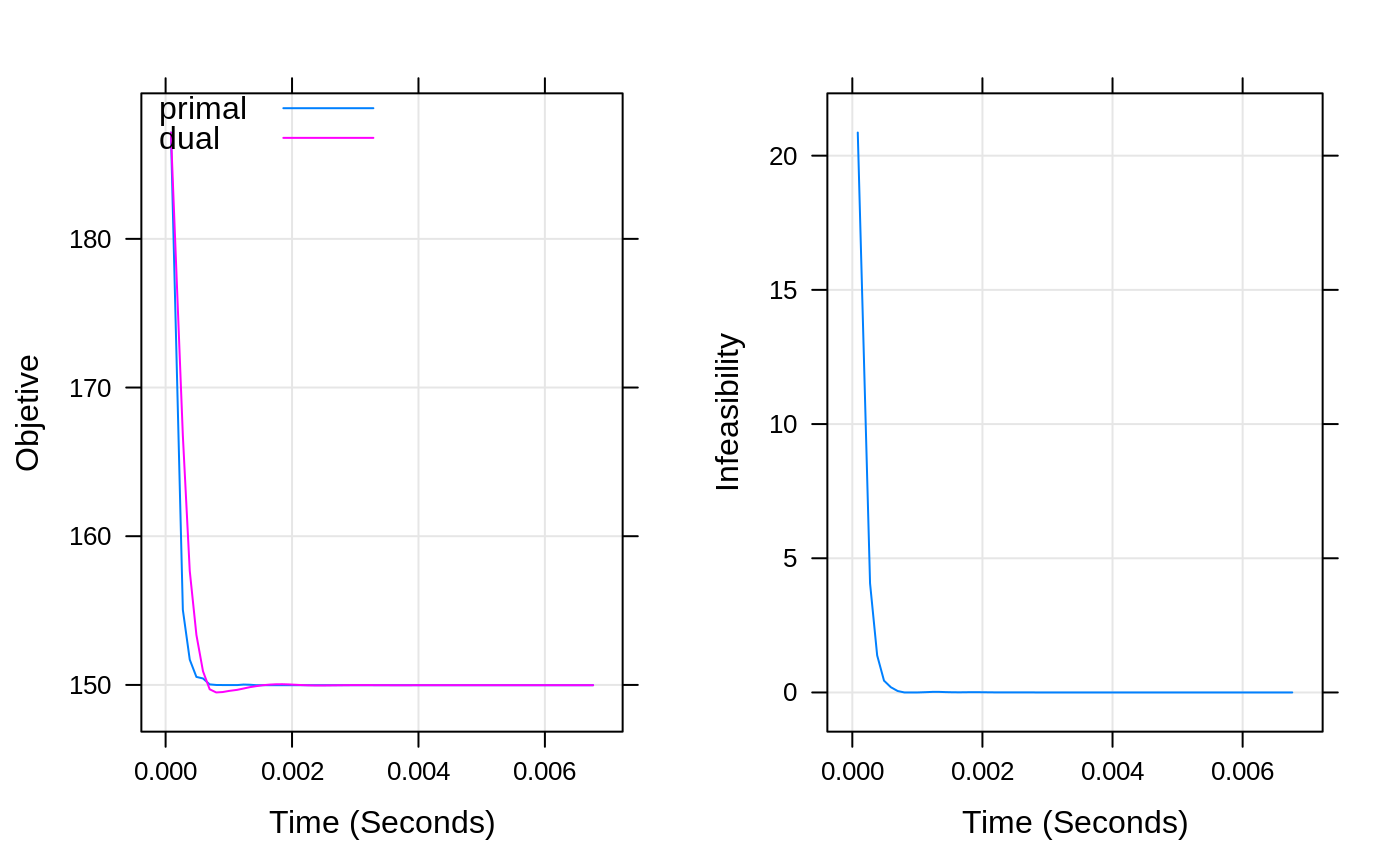
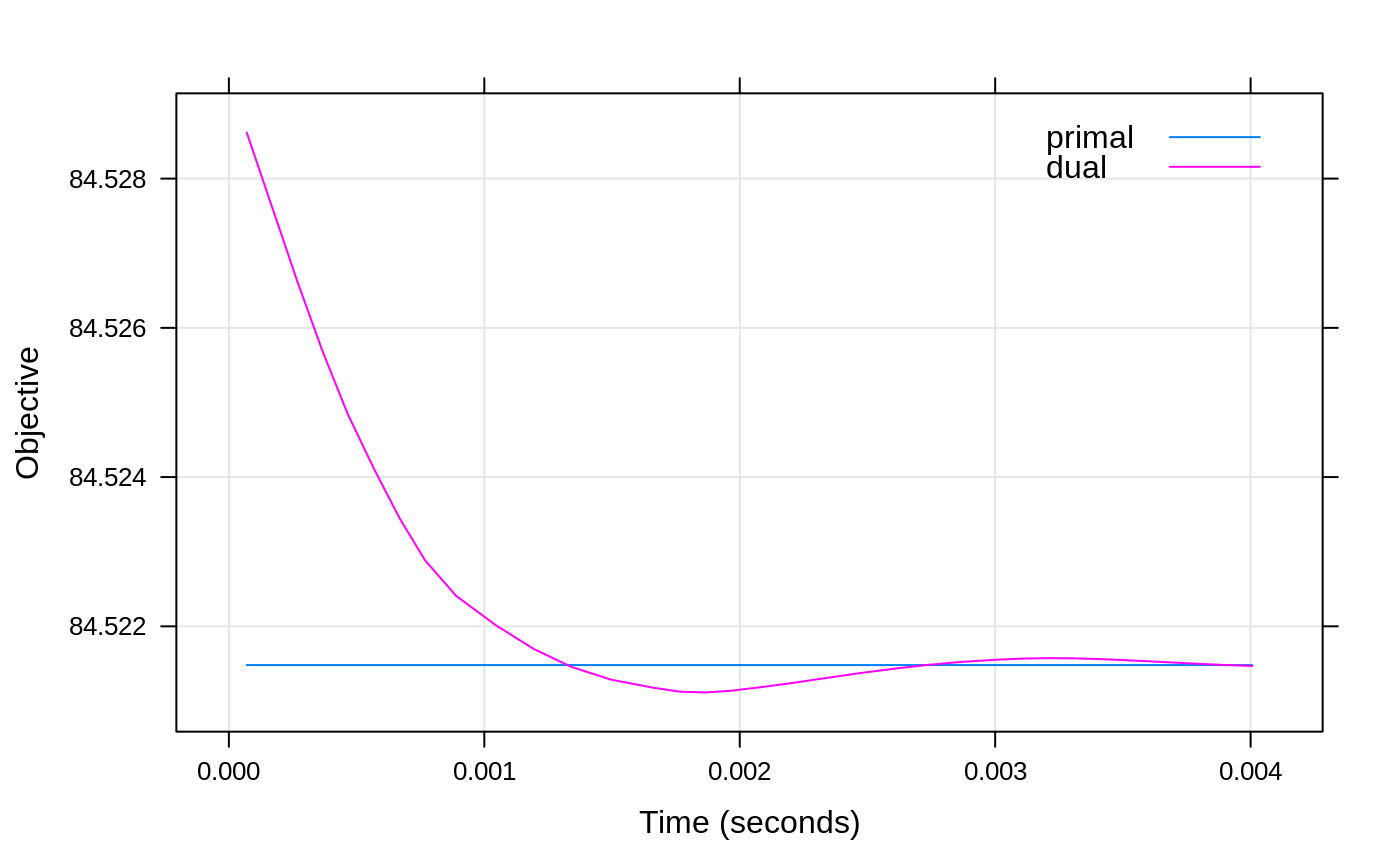
Built site for golem: 0.0.0.9000@2baffb9

diff --git a/reference/golem.html b/reference/golem.html
@@ -141,10 +141,11 @@ optimization routines suitable to big data problems.</p>
 
     <pre class="usage"><span class='fu'>golem</span>(<span class='kw'>family</span> <span class='kw'>=</span> <span class='fu'><a href='https://www.rdocumentation.org/packages/base/topics/c'>c</a></span>(<span class='st'>"gaussian"</span>, <span class='st'>"binomial"</span>), <span class='kw'>penalty</span> <span class='kw'>=</span> <span class='fu'><a href='https://www.rdocumentation.org/packages/base/topics/c'>c</a></span>(<span class='st'>"slope"</span>,
   <span class='st'>"group_slope"</span>, <span class='st'>"lasso"</span>), <span class='kw'>solver</span> <span class='kw'>=</span> <span class='st'>"fista"</span>, <span class='kw'>intercept</span> <span class='kw'>=</span> <span class='fl'>TRUE</span>,
-  <span class='kw'>standardize_features</span> <span class='kw'>=</span> <span class='fl'>TRUE</span>, <span class='kw'>orthogonalize</span> <span class='kw'>=</span> <span class='fl'>TRUE</span>, <span class='kw'>sigma</span> <span class='kw'>=</span> <span class='kw'>NULL</span>,
-  <span class='kw'>lambda</span> <span class='kw'>=</span> <span class='kw'>NULL</span>, <span class='kw'>fdr</span> <span class='kw'>=</span> <span class='fl'>0.2</span>, <span class='kw'>n_lambda</span> <span class='kw'>=</span> <span class='fl'>100</span>,
-  <span class='kw'>lambda_min_ratio</span> <span class='kw'>=</span> <span class='kw'>NULL</span>, <span class='kw'>tol_rel_gap</span> <span class='kw'>=</span> <span class='fl'>1e-06</span>, <span class='kw'>tol_infeas</span> <span class='kw'>=</span> <span class='fl'>1e-06</span>,
-  <span class='kw'>max_passes</span> <span class='kw'>=</span> <span class='fl'>10000</span>, <span class='kw'>diagnostics</span> <span class='kw'>=</span> <span class='fl'>FALSE</span>)</pre>
+  <span class='kw'>standardize_features</span> <span class='kw'>=</span> <span class='fl'>TRUE</span>, <span class='kw'>orthogonalize</span> <span class='kw'>=</span> <span class='fl'>TRUE</span>,
+  <span class='kw'>sigma</span> <span class='kw'>=</span> <span class='fu'><a href='https://www.rdocumentation.org/packages/base/topics/c'>c</a></span>(<span class='st'>"sequence"</span>, <span class='st'>"estimate"</span>), <span class='kw'>n_sigma</span> <span class='kw'>=</span> <span class='fl'>100</span>,
+  <span class='kw'>sigma_min_ratio</span> <span class='kw'>=</span> <span class='kw'>NULL</span>, <span class='kw'>lambda</span> <span class='kw'>=</span> <span class='kw'>NULL</span>, <span class='kw'>n_lambda</span> <span class='kw'>=</span> <span class='fl'>100</span>,
+  <span class='kw'>lambda_min_ratio</span> <span class='kw'>=</span> <span class='kw'>NULL</span>, <span class='kw'>fdr</span> <span class='kw'>=</span> <span class='fl'>0.2</span>, <span class='kw'>tol_rel_gap</span> <span class='kw'>=</span> <span class='fl'>1e-06</span>,
+  <span class='kw'>tol_infeas</span> <span class='kw'>=</span> <span class='fl'>1e-06</span>, <span class='kw'>max_passes</span> <span class='kw'>=</span> <span class='fl'>10000</span>, <span class='kw'>diagnostics</span> <span class='kw'>=</span> <span class='fl'>FALSE</span>)</pre>
     
     <h2 class="hasAnchor" id="arguments"><a class="anchor" href="#arguments"></a>Arguments</h2>
     <table class="ref-arguments">
@@ -181,14 +182,18 @@ applies to Group SLOPE)</p></td>
       <td><p>noise estimate (only applies to SLOPE and Group SLOPE)</p></td>
     </tr>
     <tr>
+      <th>n_sigma</th>
+      <td><p>number of sigmas to generate (only relevant for
+SLOPE and Group SLOPE)</p></td>
+    </tr>
+    <tr>
+      <th>sigma_min_ratio</th>
+      <td><p>smallest value for <code>sigma</code> as a fraction of</p></td>
+    </tr>
+    <tr>
       <th>lambda</th>
       <td><p>either a character vector indicating the method used
 to construct the lambda path or</p></td>
-    </tr>
-    <tr>
-      <th>fdr</th>
-      <td><p>target false discovery rate (only applies to SLOPE and
-Group SLOPE)</p></td>
     </tr>
     <tr>
       <th>n_lambda</th>
@@ -198,6 +203,11 @@ Group SLOPE)</p></td>
       <th>lambda_min_ratio</th>
       <td><p>smallest value for <code>lambda</code> as a fraction of
 \(\lambda_\mathrm{max}\) (only applies to lasso)</p></td>
+    </tr>
+    <tr>
+      <th>fdr</th>
+      <td><p>target false discovery rate (only applies to SLOPE and
+Group SLOPE)</p></td>
     </tr>
     <tr>
       <th>tol_rel_gap</th>
@@ -244,7 +254,7 @@ feature (only applies to Group SLOPE)</p></dd>
 <dt><code>warm_start</code></dt><dd><p>whether to use the coefficient estimates from the previous
 fit when refitting the model using new data. Provided that
 the same penalty (with approximately the same parameters)
-id used, setting this to true might lead to
+is used, setting this to true might lead to
 substantial performance boosts.</p></dd>
 <dt><code>&#8230;</code></dt><dd><p>arguments that will be used to modify the original model
 specification from the call to <code>golem()</code>. Note that arguments
@@ -261,6 +271,11 @@ new data.
 <dt><code>type</code></dt><dd><p>type of predictions to make. <code>"link"</code> gives the linear
 predictors, <code>"response"</code> gives the result of applying the link
 function, and <code>"class"</code> gives class predictions.</p></dd>
+</dl></p></dd>
+<dt><code><a href='https://www.rdocumentation.org/packages/graphics/topics/plot'>plot(...)</a></code></dt><dd><p>Plot the model's coefficient along the regularization path.
+<dl class='dl-horizontal'>
+<dt><code>&#8230;</code></dt><dd><p>graphical parameters for the plot passed on
+to <code><a href='https://www.rdocumentation.org/packages/lattice/topics/xyplot'>lattice::xyplot()</a></code>.</p></dd>
 </dl></p></dd>
 </dl>
     
@@ -325,10 +340,226 @@ of the classical gradient algorithm.</p>
 <span class='no'>gaussian_model</span>$<span class='fu'>fit</span>(<span class='no'>abalone</span>$<span class='no'>x</span>, <span class='no'>abalone</span>$<span class='no'>y</span>)
 
 <span class='co'># Get coefficients from the model fit</span>
-<span class='no'>gaussian_model</span>$<span class='fu'><a href='https://www.rdocumentation.org/packages/stats/topics/coef'>coef</a></span>()</div><div class='output co'>#&gt;    (Intercept)            sex         infant         length       diameter 
-#&gt;      4.7343105      0.0000000     -0.8427948      0.0000000      7.1485564 
-#&gt;         height   weight_whole weight_shucked weight_viscera   weight_shell 
-#&gt;     10.8508101      0.0000000     -8.0753432      0.0000000     16.5076554 </div><div class='input'>
+<span class='no'>gaussian_model</span>$<span class='fu'><a href='https://www.rdocumentation.org/packages/stats/topics/coef'>coef</a></span>()</div><div class='output co'>#&gt;                      p1       p2       p3       p4       p5           p6
+#&gt; (Intercept)    9.933684 9.933684 9.933684 9.933684 9.933684  9.919905091
+#&gt; sex            0.000000 0.000000 0.000000 0.000000 0.000000  0.000000000
+#&gt; infant         0.000000 0.000000 0.000000 0.000000 0.000000 -0.001658197
+#&gt; length         0.000000 0.000000 0.000000 0.000000 0.000000  0.006448507
+#&gt; diameter       0.000000 0.000000 0.000000 0.000000 0.000000  0.007803517
+#&gt; height         0.000000 0.000000 0.000000 0.000000 0.000000  0.018514809
+#&gt; weight_whole   0.000000 0.000000 0.000000 0.000000 0.000000  0.001579195
+#&gt; weight_shucked 0.000000 0.000000 0.000000 0.000000 0.000000  0.003488961
+#&gt; weight_viscera 0.000000 0.000000 0.000000 0.000000 0.000000  0.007064957
+#&gt; weight_shell   0.000000 0.000000 0.000000 0.000000 0.000000  0.005563255
+#&gt;                        p7         p8         p9        p10        p11
+#&gt; (Intercept)     9.4905148  9.0937463  8.7322232  8.4028082  8.1026558
+#&gt; sex             0.0000000  0.0000000  0.0000000  0.0000000  0.0000000
+#&gt; infant         -0.0586691 -0.1111954 -0.1590557 -0.2026653 -0.2424011
+#&gt; length          0.2281562  0.4324238  0.6185461  0.7881382  0.9426651
+#&gt; diameter        0.2760982  0.5232880  0.7485197  0.9537479  1.1407452
+#&gt; height          0.6550771  1.2415656  1.7759557  2.2628849  2.7065591
+#&gt; weight_whole    0.0558739  0.1058976  0.1514777  0.1930097  0.2308522
+#&gt; weight_shucked  0.0000000  0.0000000  0.0000000  0.0000000  0.0000000
+#&gt; weight_viscera  0.2499670  0.4737617  0.6776765  0.8634809  1.0327800
+#&gt; weight_shell    0.1968349  0.3730606  0.5336320  0.6799425  0.8132560
+#&gt;                       p12        p13        p14        p15        p16
+#&gt; (Intercept)     7.8291681  7.5799762  7.3002355  7.0341917  6.9409952
+#&gt; sex             0.0000000  0.0000000  0.0000000  0.0000000  0.0000000
+#&gt; infant         -0.2786068 -0.3115961 -0.3635287 -0.4130987 -0.3922117
+#&gt; length          1.0834643  1.2117553  1.4137144  1.6064851  1.5252587
+#&gt; diameter        1.3111302  1.4663786  1.7107749  1.9440522  1.8457578
+#&gt; height          3.1108185  3.4791647  4.0590252  4.6125043  4.3792888
+#&gt; weight_whole    0.2653330  0.2967506  0.3462090  0.3934172  0.3735254
+#&gt; weight_shucked  0.0000000  0.0000000  0.0000000  0.0000000  0.0000000
+#&gt; weight_viscera  1.1870389  1.3275940  0.9256714  0.0000000  0.0000000
+#&gt; weight_shell    0.9347262  1.0454054  1.2196395  1.7917495  2.7052111
+#&gt;                       p17        p18        p19        p20        p21
+#&gt; (Intercept)     6.8560139  6.6701010  6.5633817  6.4662006  6.4869965
+#&gt; sex             0.0000000  0.0000000  0.0000000  0.0000000  0.0000000
+#&gt; infant         -0.3732094 -0.3999221 -0.3976222 -0.3955002 -0.4228784
+#&gt; length          1.4513612  1.5552435  1.5462993  1.5380470  1.0924055
+#&gt; diameter        1.7563324  1.8820432  1.8712197  1.8612334  1.9900759
+#&gt; height          4.1671158  4.4653804  4.4397002  4.4160064  4.7217013
+#&gt; weight_whole    0.3554284  0.0000000  0.0000000  0.0000000  0.0000000
+#&gt; weight_shucked  0.0000000  0.0000000  0.0000000  0.0000000  0.0000000
+#&gt; weight_viscera  0.0000000  0.0000000  0.0000000  0.0000000  0.0000000
+#&gt; weight_shell    3.5370646  4.9679194  5.4647754  5.9178259  6.4466978
+#&gt;                       p22        p23        p24        p25        p26
+#&gt; (Intercept)     6.5878073  6.5953084  6.5133214  6.4357576  6.4741846
+#&gt; sex             0.0000000  0.0000000  0.0000000  0.0000000  0.0000000
+#&gt; infant         -0.4697341 -0.4968373 -0.5051585 -0.5110325 -0.5412956
+#&gt; length          0.3584548  0.0000000  0.0000000  0.0000000  0.0000000
+#&gt; diameter        2.2105798  2.3381280  2.3772879  2.4049311  1.9998392
+#&gt; height          5.2448740  5.5474980  5.6404097  5.7694818  6.1221620
+#&gt; weight_whole    0.0000000  0.0000000  0.0000000  0.0000000  0.0000000
+#&gt; weight_shucked  0.0000000  0.0000000  0.0000000  0.0000000  0.0000000
+#&gt; weight_viscera  0.0000000  0.0000000  0.0000000  0.0000000  0.0000000
+#&gt; weight_shell    7.0157072  7.4125933  7.6459180  7.8559753  8.2215931
+#&gt;                       p27        p28        p29       p30        p31        p32
+#&gt; (Intercept)     6.5192289  6.5255736  6.2345142  6.111974  5.9681565  5.8345496
+#&gt; sex             0.0000000  0.0000000  0.0000000  0.000000  0.0000000  0.0000000
+#&gt; infant         -0.5711672 -0.5986045 -0.6203897 -0.673525 -0.6932731 -0.7224736
+#&gt; length          0.0000000  0.0000000  0.0000000  0.000000  0.0000000  0.0000000
+#&gt; diameter        1.5916000  1.3652400  2.4359633  2.768460  2.9397713  3.3999783
+#&gt; height          6.4637781  6.7858403  6.9563542  7.520327  8.6639519  8.9650305
+#&gt; weight_whole    0.0000000  0.0000000  0.0000000  0.000000  0.0000000  0.0000000
+#&gt; weight_shucked  0.0000000 -0.1272483 -1.0891217 -1.417143 -2.0223982 -2.8395192
+#&gt; weight_viscera  0.0000000  0.0000000  0.0000000  0.000000  0.0000000  0.0000000
+#&gt; weight_shell    8.5708154  8.9710751  9.7381752  9.919010 10.4978399 11.3642277
+#&gt;                       p33        p34        p35        p36        p37
+#&gt; (Intercept)     5.7733737  5.6294988  5.5218879  5.4238236  5.2877247
+#&gt; sex             0.0000000  0.0000000  0.0000000  0.0000000  0.0000000
+#&gt; infant         -0.7606355 -0.7765347 -0.7893852 -0.8010933 -0.8099447
+#&gt; length          0.0000000  0.0000000  0.0000000  0.0000000  0.0000000
+#&gt; diameter        3.5795689  4.0569253  4.2949580  4.5118741  5.0154073
+#&gt; height          9.3406579  9.6255571 10.1903191 10.7049796 10.7865766
+#&gt; weight_whole    0.0000000  0.0000000  0.0000000  0.0000000  0.0000000
+#&gt; weight_shucked -3.5473730 -4.2424524 -4.8515923 -5.4066528 -5.9522416
+#&gt; weight_viscera  0.0000000  0.0000000  0.0000000  0.0000000  0.0000000
+#&gt; weight_shell   12.2106778 12.8986926 13.5466910 14.1371380 14.6322320
+#&gt;                       p38        p39        p40        p41        p42
+#&gt; (Intercept)     5.1565566  5.0370395  4.9281381  4.8289112  4.7384994
+#&gt; sex             0.0000000  0.0000000  0.0000000  0.0000000  0.0000000
+#&gt; infant         -0.8177314 -0.8248262 -0.8312908 -0.8371811 -0.8425482
+#&gt; length          0.0000000  0.0000000  0.0000000  0.0000000  0.0000000
+#&gt; diameter        5.5209930  5.9816644  6.4014262  6.7838976  7.1323913
+#&gt; height         10.8018131 10.8157104 10.8283531 10.8398726 10.8503688
+#&gt; weight_whole    0.0000000  0.0000000  0.0000000  0.0000000  0.0000000
+#&gt; weight_shucked -6.4554766 -6.9140199 -7.3318152 -7.7124947 -8.0593557
+#&gt; weight_viscera  0.0000000  0.0000000  0.0000000  0.0000000  0.0000000
+#&gt; weight_shell   15.0767788 15.4818519 15.8509146 16.1871908 16.4935931
+#&gt;                       p43        p44        p45        p46         p47
+#&gt; (Intercept)     4.6561194  4.5810579  4.5126647  4.4583274   4.4243133
+#&gt; sex             0.0000000  0.0000000  0.0000000  0.0000000   0.0000000
+#&gt; infant         -0.8474384 -0.8518942 -0.8559542 -0.8572413  -0.8537435
+#&gt; length          0.0000000  0.0000000  0.0000000  0.0000000   0.0000000
+#&gt; diameter        7.4499258  7.7392514  8.0028741  8.2145499   8.3519778
+#&gt; height         10.8599325 10.8686466 10.8765865 10.8584991  10.7930600
+#&gt; weight_whole    0.0000000  0.0000000  0.0000000  0.1595255   0.6138303
+#&gt; weight_shucked -8.3754025 -8.6633726 -8.9257602 -9.3586032 -10.1282472
+#&gt; weight_viscera  0.0000000  0.0000000  0.0000000  0.0000000   0.0000000
+#&gt; weight_shell   16.7727755 17.0271561 17.2589382 17.2349878  16.7578690
+#&gt;                        p48         p49         p50         p51         p52
+#&gt; (Intercept)      4.4093534   4.4052104   4.3731422   4.3238281   4.2730083
+#&gt; sex              0.0000000   0.0000000   0.0000000   0.0000000   0.0000000
+#&gt; infant          -0.8533089  -0.8545281  -0.8601265  -0.8611718  -0.8612814
+#&gt; length           0.0000000   0.0000000   0.0000000   0.0000000   0.0000000
+#&gt; diameter         8.4091049   8.4208431   8.5584458   8.7170408   8.9399775
+#&gt; height          10.7175926  10.6396319  10.6320665  10.7782151  10.7521946
+#&gt; weight_whole     0.7818552   0.7908205   0.9068475   1.2756925   1.8091803
+#&gt; weight_shucked -10.5022250 -10.6510749 -10.9575420 -11.4203721 -12.0287734
+#&gt; weight_viscera   0.0000000   0.0000000   0.0000000  -0.5509792  -1.2913071
+#&gt; weight_shell    16.7461216  16.9834673  16.9532145  16.6380287  16.1094866
+#&gt;                        p53         p54         p55         p56         p57
+#&gt; (Intercept)      4.2187978   4.1918737   4.1673422   4.1497105   4.1311047
+#&gt; sex              0.0000000   0.0000000   0.0000000   0.0000000   0.0000000
+#&gt; infant          -0.8614747  -0.8614016  -0.8613353  -0.8632578  -0.8633405
+#&gt; length           0.0000000   0.0000000   0.0000000   0.0000000   0.0000000
+#&gt; diameter         9.1762672   9.2972691   9.4075190   9.4960919   9.5507382
+#&gt; height          10.7168498  10.7175877  10.7182567  10.7090328  10.7591581
+#&gt; weight_whole     2.2118485   2.8126350   3.3600226   3.8164195   3.9708906
+#&gt; weight_shucked -12.5090635 -13.1540510 -13.7417081 -14.2561783 -14.4851698
+#&gt; weight_viscera  -1.8791832  -2.6581987  -3.3680038  -3.8969613  -4.1141923
+#&gt; weight_shell    15.7237949  15.1041888  14.5396719  14.0606040  13.9888204
+#&gt;                       p58           p59           p60          p61          p62
+#&gt; (Intercept)      4.113761   4.096864050   4.081856971   4.06818315   4.05572407
+#&gt; sex              0.000000  -0.003271313  -0.008093676  -0.01248762  -0.01649122
+#&gt; infant          -0.863852  -0.864894444  -0.866591333  -0.86813749  -0.86954629
+#&gt; length           0.000000   0.000000000   0.000000000   0.00000000   0.00000000
+#&gt; diameter         9.627764   9.710421749   9.786740908   9.85627973   9.91964091
+#&gt; height          10.748095  10.747424181  10.747573167  10.74770925  10.74783325
+#&gt; weight_whole     4.237506   4.658547698   5.042232326   5.39183148   5.71037322
+#&gt; weight_shucked -14.790849 -15.235056725 -15.640824054 -16.01054342 -16.34741793
+#&gt; weight_viscera  -4.516084  -5.058879734  -5.552271823  -6.00183402  -6.41145835
+#&gt; weight_shell    13.775733  13.329222640  12.922485727  12.55188248  12.21420261
+#&gt;                         p63         p64          p65         p66          p67
+#&gt; (Intercept)      4.04437183   4.0340281   4.02460325   4.0160157   4.00819102
+#&gt; sex             -0.02013914  -0.0234630  -0.02649158  -0.0292511  -0.03176548
+#&gt; infant          -0.87082993  -0.8719995  -0.87306524  -0.8740363  -0.87492104
+#&gt; length           0.00000000   0.0000000   0.00000000   0.0000000   0.00000000
+#&gt; diameter         9.97737326  10.0299768  10.07790723  10.1215796  10.16137231
+#&gt; height          10.74794623  10.7480492  10.74814297  10.7482284  10.74830631
+#&gt; weight_whole     6.00061658   6.2650755   6.50604066   6.7255991   6.92565261
+#&gt; weight_shucked -16.65436544 -16.9340446 -17.18887780 -17.4210723 -17.63263935
+#&gt; weight_viscera  -6.78469279  -7.1247701  -7.43463589  -7.7169741  -7.97423007
+#&gt; weight_shell    11.90652129  11.6261735  11.37073108  11.1379814  10.92590864
+#&gt;                         p68          p69          p70          p71          p72
+#&gt; (Intercept)      4.00106148   3.99456531   3.98864624   3.98325300   3.97833888
+#&gt; sex             -0.03405648  -0.03614396  -0.03804599  -0.03977905  -0.04135816
+#&gt; infant          -0.87572721  -0.87646175  -0.87713105  -0.87774088  -0.87829654
+#&gt; length           0.00000000   0.00000000   0.00000000   0.00000000   0.00000000
+#&gt; diameter        10.19762990  10.23066648  10.26076817  10.28819572  10.31318667
+#&gt; height          10.74837727  10.74844192  10.74850083  10.74855450  10.74860341
+#&gt; weight_whole     7.10793390   7.27402182   7.42535495   7.56324406   7.68888349
+#&gt; weight_shucked -17.82541134 -18.00105799 -18.16110067 -18.30692561 -18.43979586
+#&gt; weight_viscera  -8.20863217  -8.42221064  -8.61681538  -8.79413197  -8.95569625
+#&gt; weight_shell    10.73267580  10.55660924  10.39618394  10.25001039  10.11682249
+#&gt;                         p73         p74         p75          p76          p77
+#&gt; (Intercept)      3.97386132   3.9697793   3.9660621   3.96016509   3.95729932
+#&gt; sex             -0.04279697  -0.0441084  -0.0453029  -0.04650632  -0.04748817
+#&gt; infant          -0.87880284  -0.8792636  -0.8796840  -0.87987556  -0.88024136
+#&gt; length           0.00000000   0.0000000   0.0000000   0.00000000   0.00000000
+#&gt; diameter        10.33595750  10.3567179  10.3756216  10.40436359  10.41904749
+#&gt; height          10.74864797  10.7486793  10.7487171  10.74109436  10.74179328
+#&gt; weight_whole     7.80336145   7.9077170   8.0027543   8.08052401   8.16016945
+#&gt; weight_shucked -18.56086228 -18.6712386 -18.7717443 -18.86075263 -18.94440591
+#&gt; weight_viscera  -9.10290760  -9.2370465  -9.3592633  -9.44739524  -9.55083317
+#&gt; weight_shell     9.99546663   9.8848223   9.7840767   9.69668047   9.61269087
+#&gt;                         p78          p79          p80         p81          p82
+#&gt; (Intercept)      3.95469084   3.95231411   3.95014852   3.9481753   3.94637740
+#&gt; sex             -0.04838241  -0.04919721  -0.04993963  -0.0506161  -0.05123246
+#&gt; infant          -0.88057488  -0.88087877  -0.88115567  -0.8814080  -0.88163786
+#&gt; length           0.00000000   0.00000000   0.00000000   0.0000000   0.00000000
+#&gt; diameter        10.43241397  10.44459298  10.45569003  10.4658013  10.47501422
+#&gt; height          10.74244281  10.74303466  10.74357393  10.7440653  10.74451301
+#&gt; weight_whole     8.23277969   8.29893941   8.35922169   8.4141487   8.46419606
+#&gt; weight_shucked -19.02064428 -19.09010973 -19.15340406 -19.2110755 -19.26362356
+#&gt; weight_viscera  -9.64517400  -9.73113405  -9.80945764  -9.8808232  -9.94584881
+#&gt; weight_shell     9.53612060   9.46635270   9.40278279   9.3448603   9.29208339
+#&gt;                         p83         p84          p85          p86          p87
+#&gt; (Intercept)      3.94473921   3.9432466   3.94188650   3.94064727   3.94084074
+#&gt; sex             -0.05179408  -0.0523058  -0.05277206  -0.05319689  -0.05359297
+#&gt; infant          -0.88184732  -0.8820382  -0.88221207  -0.88237052  -0.88243761
+#&gt; length           0.00000000   0.0000000   0.00000000   0.00000000  -0.02502625
+#&gt; diameter        10.48340874  10.4910575  10.49802678  10.50437692  10.53782003
+#&gt; height          10.74492096  10.7452927  10.74563134  10.74593993  10.74687926
+#&gt; weight_whole     8.50979739   8.5513476   8.58920665   8.62370238   8.65507573
+#&gt; weight_shucked -19.31150340 -19.3551297 -19.39488042 -19.43109976 -19.46329761
+#&gt; weight_viscera -10.00509774 -10.0590832 -10.10827265 -10.15309229 -10.19231226
+#&gt; weight_shell     9.24399509   9.2001788   9.16025506   9.12387801   9.09015972
+#&gt;                         p88          p89          p90          p91          p92
+#&gt; (Intercept)      3.94186880   3.94280043   3.94364942   3.94442293   3.94512771
+#&gt; sex             -0.05395939  -0.05429312  -0.05459717  -0.05487423  -0.05512668
+#&gt; infant          -0.88245044  -0.88246292  -0.88247439  -0.88248475  -0.88249420
+#&gt; length          -0.06372406  -0.09878058  -0.13072242  -0.15982876  -0.18634861
+#&gt; diameter        10.58580247  10.62927205  10.66887836  10.70496971  10.73785377
+#&gt; height          10.74817453  10.74936147  10.75044308  10.75142845  10.75232631
+#&gt; weight_whole     8.68353615   8.70948780   8.73311461   8.75465863   8.77428727
+#&gt; weight_shucked -19.49203951 -19.51824987 -19.54211301 -19.56387183 -19.58369624
+#&gt; weight_viscera -10.22690470 -10.25845530 -10.28718269 -10.31337489 -10.33723876
+#&gt; weight_shell     9.05920027   9.03097901   9.00528973   8.98186175   8.96051698
+#&gt;                         p93          p94          p95          p96          p97
+#&gt; (Intercept)      3.94576995   3.94603371   3.94659821   3.94710970   3.94757579
+#&gt; sex             -0.05535668  -0.05561472  -0.05580146  -0.05597152  -0.05612648
+#&gt; infant          -0.88250289  -0.88255068  -0.88255385  -0.88255720  -0.88256025
+#&gt; length          -0.21051113  -0.22623413  -0.24696654  -0.26574216  -0.28285114
+#&gt; diameter        10.76781398  10.78818455  10.81381344  10.83702398  10.85817416
+#&gt; height          10.75314454  10.75374734  10.75443546  10.75506632  10.75564111
+#&gt; weight_whole     8.79215746   8.80849540   8.82332643   8.83685032   8.84917181
+#&gt; weight_shucked -19.60174529 -19.61845766 -19.63341700 -19.64705889 -19.65948791
+#&gt; weight_viscera -10.35896724 -10.37918410 -10.39717963 -10.41359398 -10.42854904
+#&gt; weight_shell     8.94108737   8.92348144   8.90733489   8.89261684   8.87920747
+#&gt;                         p98          p99         p100
+#&gt; (Intercept)      3.94800039   3.94838735   3.94873984
+#&gt; sex             -0.05626768  -0.05639633  -0.05651355
+#&gt; infant          -0.88256300  -0.88256555  -0.88256785
+#&gt; length          -0.29843881  -0.31264230  -0.32558209
+#&gt; diameter        10.87744410  10.89500236  10.91099879
+#&gt; height          10.75616485  10.75664208  10.75707695
+#&gt; weight_whole     8.86040624   8.87063339   8.87995824
+#&gt; weight_shucked -19.67082007 -19.68113657 -19.69054263
+#&gt; weight_viscera -10.44218360 -10.45459710 -10.46591458
+#&gt; weight_shell     8.86697976   8.85585016   8.84570139</div><div class='input'>
 <span class='co'># Binomial response, lasso penalty ------------------------------------------</span>
 
 <span class='no'>binomial_model</span> <span class='kw'>&lt;-</span> <span class='fu'>golem</span>(<span class='kw'>family</span> <span class='kw'>=</span> <span class='st'>"binomial"</span>, <span class='kw'>penalty</span> <span class='kw'>=</span> <span class='st'>"lasso"</span>)

diff --git a/articles/benchmarks.html b/articles/benchmarks.html
@@ -93,7 +93,7 @@
       <h1>Benchmarks</h1>
                         <h4 class="author">Johan Larsson</h4>
             
-            <h4 class="date">2019-06-17</h4>
+            <h4 class="date">2019-07-16</h4>
       
       <small class="dont-index">Source: <a href="https://github.com/jolars/golem/blob/master/vignettes/benchmarks.Rmd"><code>vignettes/benchmarks.Rmd</code></a></small>
       <div class="hidden name"><code>benchmarks.Rmd</code></div>
@@ -112,9 +112,10 @@
 <div id="gaussian-model" class="section level3">
 <h3 class="hasAnchor">
 <a href="#gaussian-model" class="anchor"></a>Gaussian model</h3>
-<div class="sourceCode" id="cb2"><pre class="sourceCode r"><code class="sourceCode r"><a class="sourceLine" id="cb2-1" data-line-number="1">model &lt;-<span class="st"> </span><span class="kw"><a href="../reference/golem.html">golem</a></span>(<span class="dt">family =</span> <span class="st">"gaussian"</span>, <span class="dt">diagnostics =</span> <span class="ot">TRUE</span>)</a>
-<a class="sourceLine" id="cb2-2" data-line-number="2">model<span class="op">$</span><span class="kw">fit</span>(abalone<span class="op">$</span>x, abalone<span class="op">$</span>y)</a>
-<a class="sourceLine" id="cb2-3" data-line-number="3">model<span class="op">$</span>diagnostics<span class="op">$</span><span class="kw"><a href="https://www.rdocumentation.org/packages/graphics/topics/plot">plot</a></span>()</a></code></pre></div>
+<div class="sourceCode" id="cb2"><pre class="sourceCode r"><code class="sourceCode r"><a class="sourceLine" id="cb2-1" data-line-number="1">model &lt;-<span class="st"> </span><span class="kw"><a href="../reference/golem.html">golem</a></span>(<span class="dt">family =</span> <span class="st">"gaussian"</span>, <span class="dt">penalty =</span> <span class="st">"slope"</span>, <span class="dt">diagnostics =</span> <span class="ot">TRUE</span>,</a>
+<a class="sourceLine" id="cb2-2" data-line-number="2">               <span class="dt">sigma =</span> <span class="st">"estimate"</span>)</a>
+<a class="sourceLine" id="cb2-3" data-line-number="3">model<span class="op">$</span><span class="kw">fit</span>(abalone<span class="op">$</span>x, abalone<span class="op">$</span>y)</a>
+<a class="sourceLine" id="cb2-4" data-line-number="4">model<span class="op">$</span>diagnostics<span class="op">$</span><span class="kw"><a href="https://www.rdocumentation.org/packages/graphics/topics/plot">plot</a></span>()</a></code></pre></div>
 <div class="figure">
 <img src="benchmarks_files/figure-html/unnamed-chunk-2-1.png" alt="Objective loss over time for the abalone data set (Gaussian response)." width="700"><p class="caption">
 Objective loss over time for the abalone data set (Gaussian response).

diff --git a/reference/Diagnostics.html b/reference/Diagnostics.html
@@ -147,6 +147,7 @@ golem()." />
     <dl class='dl-horizontal'>
 <dt><code>data</code></dt><dd><p>contains a data frame with variables
 <dl class='dl-horizontal'>
+<dt><code>iteration</code></dt><dd><p>iteration</p></dd>
 <dt><code>time</code></dt><dd><p>time</p></dd>
 <dt><code>primal</code></dt><dd><p>primal objective</p></dd>
 <dt><code>dual</code></dt><dd><p>dual objective</p></dd>
@@ -159,8 +160,18 @@ golem()." />
 
     
     <dl class='dl-horizontal'>
-<dt><code><a href='https://www.rdocumentation.org/packages/graphics/topics/plot'>plot()</a></code></dt><dd><p>Plot objectives and infeasibility side-by-side using
-trellis graphics.</p></dd>
+<dt><code><a href='https://www.rdocumentation.org/packages/graphics/topics/plot'>plot(ind = "last", what = c("objectives", "infeasibility"))</a></code></dt><dd><p>Plot objectives and infeasibility side-by-side using
+trellis graphics.
+<dl class='dl-horizontal'>
+<dt><code>ind</code></dt><dd><p>index of the fit for which diagnostics should be plotted</p></dd>
+<dt><code>x_var</code></dt><dd><p>what to place on the x axis. <code>iteration</code> plots each iteration, <code>time</code>
+plots the wall-clock time.</p></dd>
+<dt><code>y_var</code></dt><dd><p>what to place on the y axis. <code>objectives</code> returns the
+primal and dual objectives whereas <code>infeasibility</code> returns
+the infeasibility metric.</p></dd>
+<dt><code>&#8230;</code></dt><dd><p>other arguments that will be used to modify the call to
+<code><a href='https://www.rdocumentation.org/packages/lattice/topics/xyplot'>lattice::xyplot()</a></code></p></dd>
+</dl></p></dd>
 </dl>
     
 

diff --git a/articles/penalties.html b/articles/penalties.html
@@ -93,7 +93,7 @@
       <h1>Regularization penalties in golem</h1>
                         <h4 class="author">Johan Larsson</h4>
             
-            <h4 class="date">2019-06-17</h4>
+            <h4 class="date">2019-07-16</h4>
       
       <small class="dont-index">Source: <a href="https://github.com/jolars/golem/blob/master/vignettes/penalties.Rmd"><code>vignettes/penalties.Rmd</code></a></small>
       <div class="hidden name"><code>penalties.Rmd</code></div>
